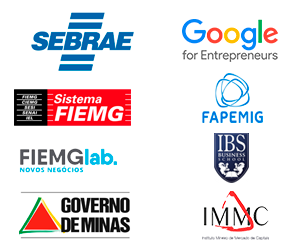
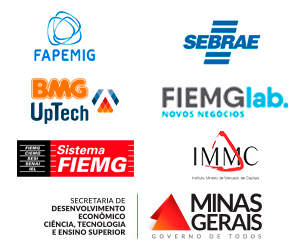
Alterações de style

diff --git a/styles/styles.css b/styles/styles.css
@@ -37,6 +37,11 @@ body {
   color: #6ab344;
 }
 
+.item_contatos img {
+  position: relative;
+  width: 100%;
+}
+
 .auth-button-container {
   margin-bottom: 20px;
   padding-right: 80px;
@@ -368,6 +373,7 @@ div.au-stagger {
 }
 .resultado-help {
   margin: 10px 0px !important;
+  text-align: justify;
 }
 .resultado-image {
   position: relative;
@@ -412,6 +418,10 @@ div.au-stagger {
   margin-top: 10px;
   font-family: 'Roboto Condensed', sans-serif;
 }
+.destaque {
+  color: #6ab344;
+  text-decoration: none;
+}
 @media only screen and (max-width : 1200px) {
 }
 
@@ -424,9 +434,12 @@ div.au-stagger {
     margin-top: 0px; 
   }
   .medidor-invest {
-    margin-right: 300px;
-    margin-top: -30px; 
+     
   }	  
+  .item_contatos img {
+    position: relative;
+    width: 300px;
+  }
 }
 
 @media only screen and (max-width : 768px) {
@@ -458,6 +471,10 @@ div.au-stagger {
     margin-right: 80px;
     margin-top: 20px; 
   }	 
+  .item_contatos img {
+    position: relative;
+    width: 250px;
+  }
 }
 /***********************************
 ******* CSS PROGRESS ******

diff --git a/src/info/info_1.html b/src/info/info_1.html
@@ -2,7 +2,7 @@
     <div class="jumbotron login">
         <h3 class="title resultado-help">
             Vamos começar pelo investimento mais conhecido por todos nós.
-            A poupança é um investimento que você empresta seu dinheiro para o banco e ele te paga um juros por isso.
+            A <a class="destaque" href="https://pt.wikipedia.org/wiki/Poupan%C3%A7a" target="_blank">poupança</a> é um investimento que você empresta seu dinheiro para o banco e ele te paga um juros por isso.
         </h3>
         <br>
         <h3 class="title resultado-help">
@@ -13,8 +13,9 @@
         <br>
         <br>
         <br>
-        <div class="col-md-12 pull-right">
-            <a class="btn btn-lg btn-success auth-button" href="#info2">Continuar</a>
+        <div class="col-md-12 row">
+            <a class="col-md-5 btn btn-lg btn-success auth-button" href="#" target="_blank">Saber mais</a>
+            <a class="col-md-5 col-md-offset-2 btn btn-lg btn-success auth-button" href="#info2">Próximo</a>
         </div>
     </div>    
 </template>

diff --git a/src/intro/login.html b/src/intro/login.html
@@ -1,7 +1,7 @@
 <template>
     <div class="jumbotron login">
-        <h2 class="title">Bem vindo ao InvestPlay</h2>
-        <h3 class="title col-md-10 col-md-offset-1">Faça o teste do investplay e descubra na hora qual o seu perfil de investidor</h3>
+        <h2 class="title">Bem-vindo ao InvestPlay.</h2>
+        <h3 class="title col-md-10 col-md-offset-1">Vamos te ajudar a alcançar seu sonho de forma mais simples!</h3>
         <div class="row">
             <a class="btn btn-lg btn-danger auth-button" href.bind="googleLogin">Começar com Google</a>
         </div>

diff --git a/src/intro/medidor.html b/src/intro/medidor.html
@@ -4,8 +4,7 @@
             <div class="col-md-6 container">
                 <h4 class="title" style="text-align: left;">InvestDicas</h4>
                 <p class="description">
-                     Esse é o seu contador de InvestDicas, ele te mostra quantas etapas restam após a definição 
-                     do seu perfíl.
+                     Esse é o seu contador do InvestDicas. Ele te mostra quantas etapas restam após a definição do seu perfil.
                 </p>                
             </div>
             <div class="col-md-6 medidor-invest">

diff --git a/src/intro/perfil.html b/src/intro/perfil.html
@@ -4,7 +4,7 @@
             <div class="col-md-6 container">
                 <h4 class="title" style="text-align: left;">${perfil}</h4>
                 <p class="description">
-                     Esse é o seu perfíl no InvestPlay, ele será definido de acordo com as respostas fornecidas. 
+                     Esse é o seu perfil no InvestPlay. Ele será definido de acordo com as suas respostas.
                 </p>                
             </div>
             <div class="col-md-6 avatar-type">

diff --git a/src/intro/resultado.html b/src/intro/resultado.html
@@ -4,6 +4,6 @@
         <h2 class="title">Seu perfil de investidor é:</h2>
         <img class="resultado-image" src="./resources/images/avatar_${perfil}.png">
         <span class="title resultado-perfil resultado-help">${perfil}</span>
-        <a class="btn btn-lg btn-success auth-button" href="#info1">Vamos lá</a>
+        <a class="btn btn-lg btn-success auth-button" href="#info1">Começar</a>
     </div>
 </template>

diff --git a/src/intro/contatos.html b/src/intro/contatos.html
@@ -1,6 +1,6 @@
 <template>
-    <div class="jumbotron contatos item" >
+    <div class="jumbotron contatos item item_contatos" >
         <h4 class="title">${title}</h4>        
-        <img src="./resources/images/parceiros.png"/>
+        <img src="./resources/images/parceiros.gif"/>
     </div>
 </template>
